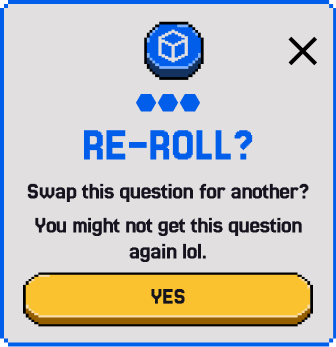
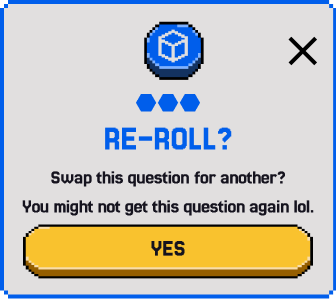
update reroll popup image and button areas

Changed region(s): [[0.0, 0.0602, 1.0, 0.9933], [0.0, 0.0, 1.0, 0.0301], [0.8631, 0.0903, 0.9524, 0.2107]]

diff --git a/ar/style.css b/ar/style.css
@@ -136,7 +136,7 @@ body {
 #popup_box {
   position: relative;
   width: 336px;
-  height: 347px;
+  height: 299px;
   background: url(assets/popup-reroll.png) no-repeat;
 }
 
@@ -148,17 +148,17 @@ body {
 }
 
 #popup_close {
-  top: 27px;
-  right: 10px;
-  width: 48px;
-  height: 48px;
+  top: 30px;
+  right: 12px;
+  width: 44px;
+  height: 44px;
 }
 
 #popup_yes {
-  top: 271px;
-  left: 26px;
-  width: 284px;
-  height: 50px;
+  top: 224px;
+  left: 24px;
+  width: 288px;
+  height: 48px;
 }
 
 #overlay {

diff --git a/input/style.css b/input/style.css
@@ -152,7 +152,7 @@ body {
 #popup_box {
   position: relative;
   width: 336px;
-  height: 347px;
+  height: 299px;
   background: url(assets/popup-reroll.png) no-repeat;
 }
 
@@ -164,17 +164,17 @@ body {
 }
 
 #popup_close {
-  top: 27px;
-  right: 10px;
-  width: 48px;
-  height: 48px;
+  top: 30px;
+  right: 12px;
+  width: 44px;
+  height: 44px;
 }
 
 #popup_yes {
-  top: 271px;
-  left: 26px;
-  width: 284px;
-  height: 50px;
+  top: 224px;
+  left: 24px;
+  width: 288px;
+  height: 48px;
 }
 
 #overlay {

diff --git a/qr/style.css b/qr/style.css
@@ -152,7 +152,7 @@ body {
 #popup_box {
   position: relative;
   width: 336px;
-  height: 347px;
+  height: 299px;
   background: url(assets/popup-reroll.png) no-repeat;
 }
 
@@ -164,17 +164,17 @@ body {
 }
 
 #popup_close {
-  top: 27px;
-  right: 10px;
-  width: 48px;
-  height: 48px;
+  top: 30px;
+  right: 12px;
+  width: 44px;
+  height: 44px;
 }
 
 #popup_yes {
-  top: 271px;
-  left: 26px;
-  width: 284px;
-  height: 50px;
+  top: 224px;
+  left: 24px;
+  width: 288px;
+  height: 48px;
 }
 
 #overlay {
